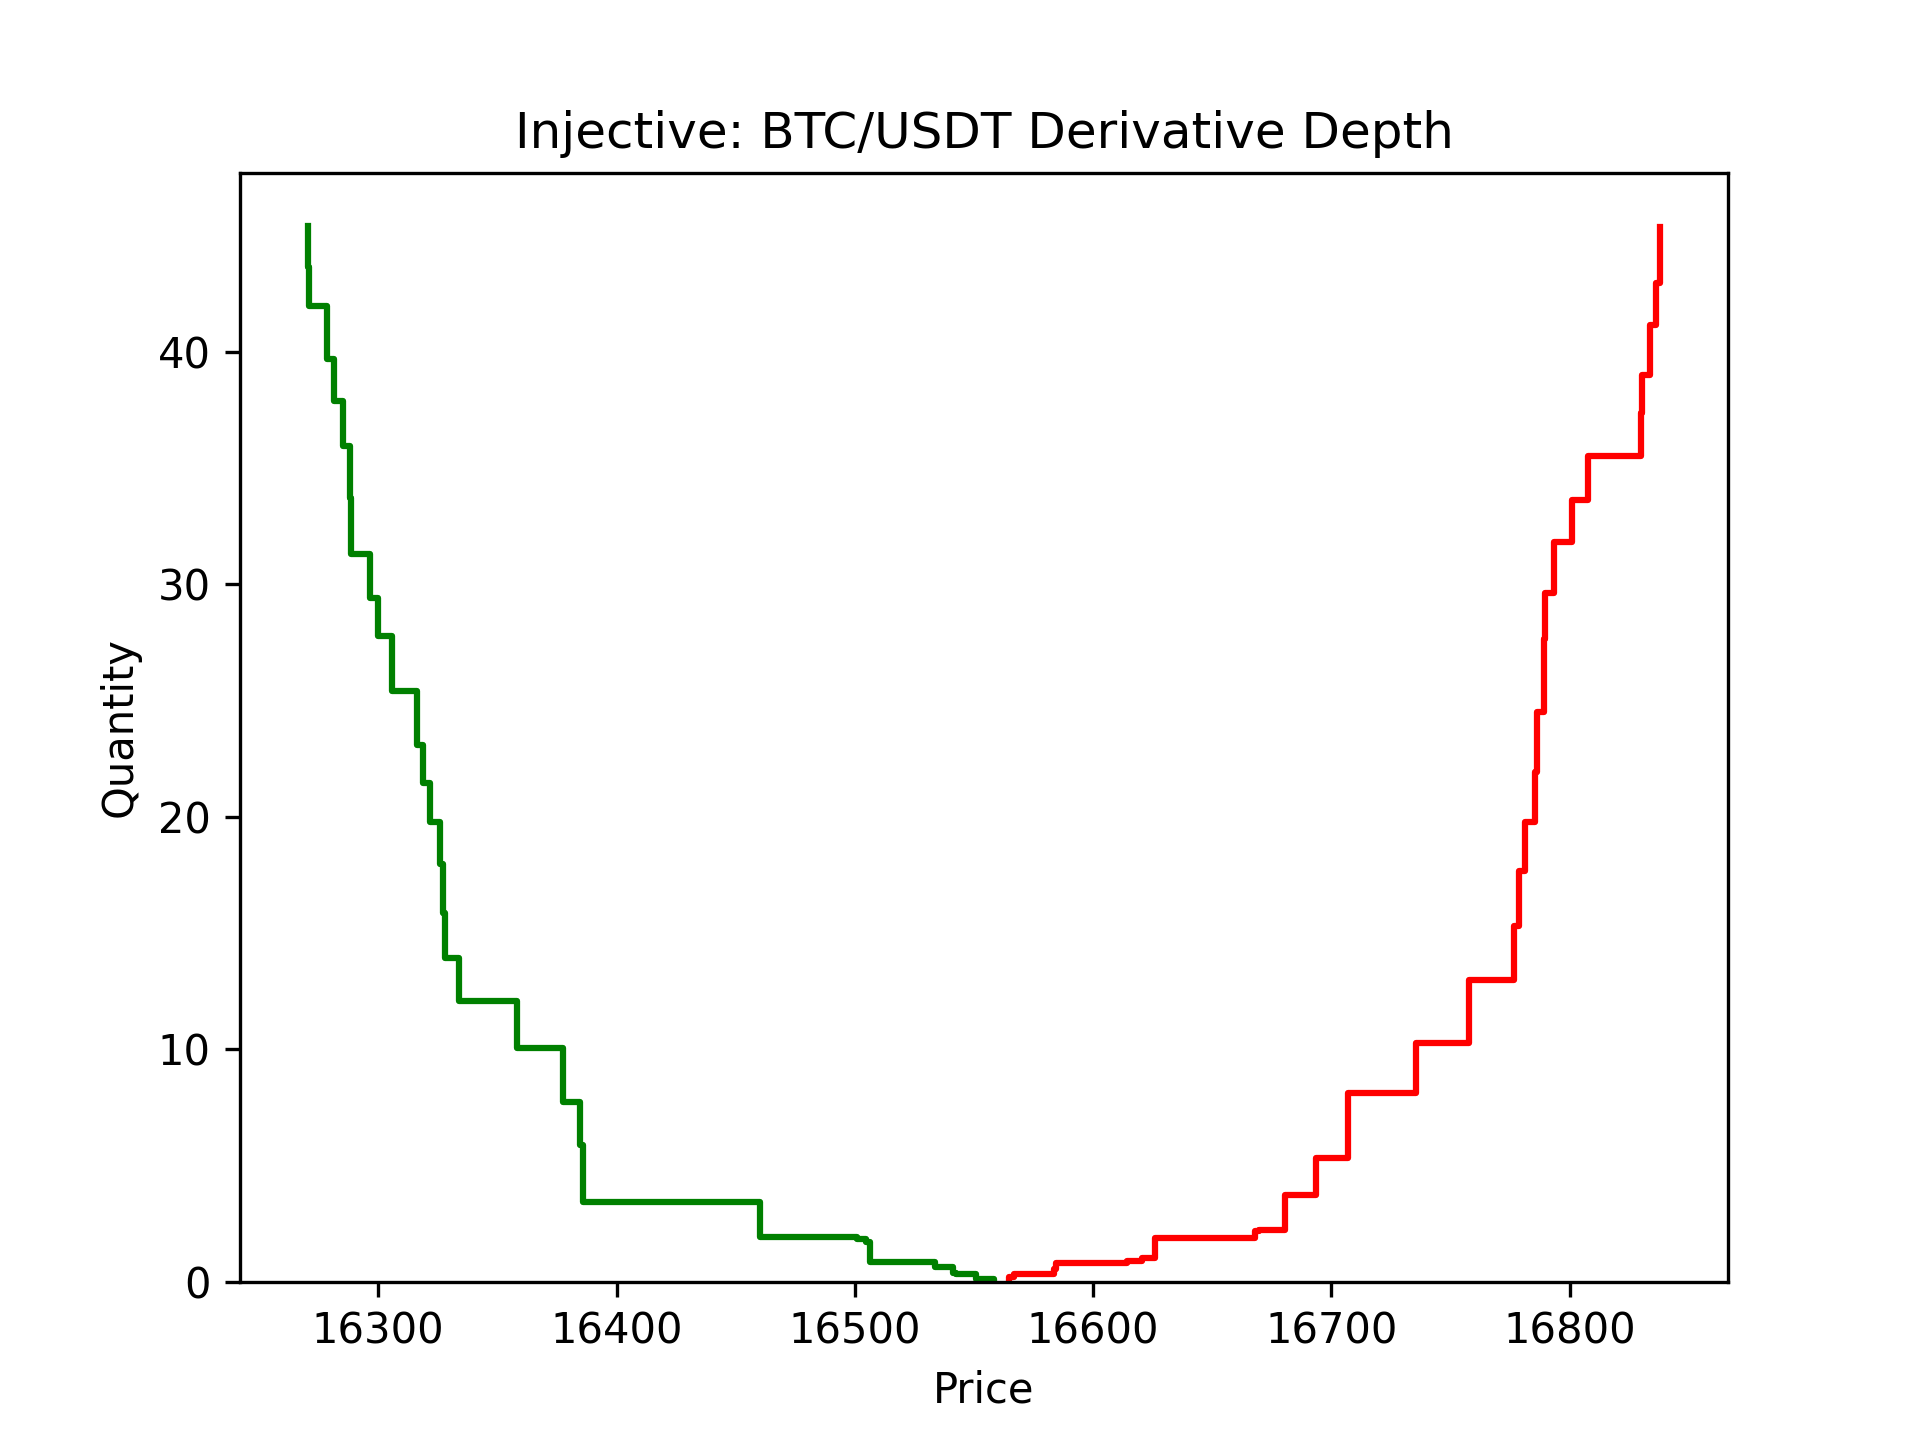
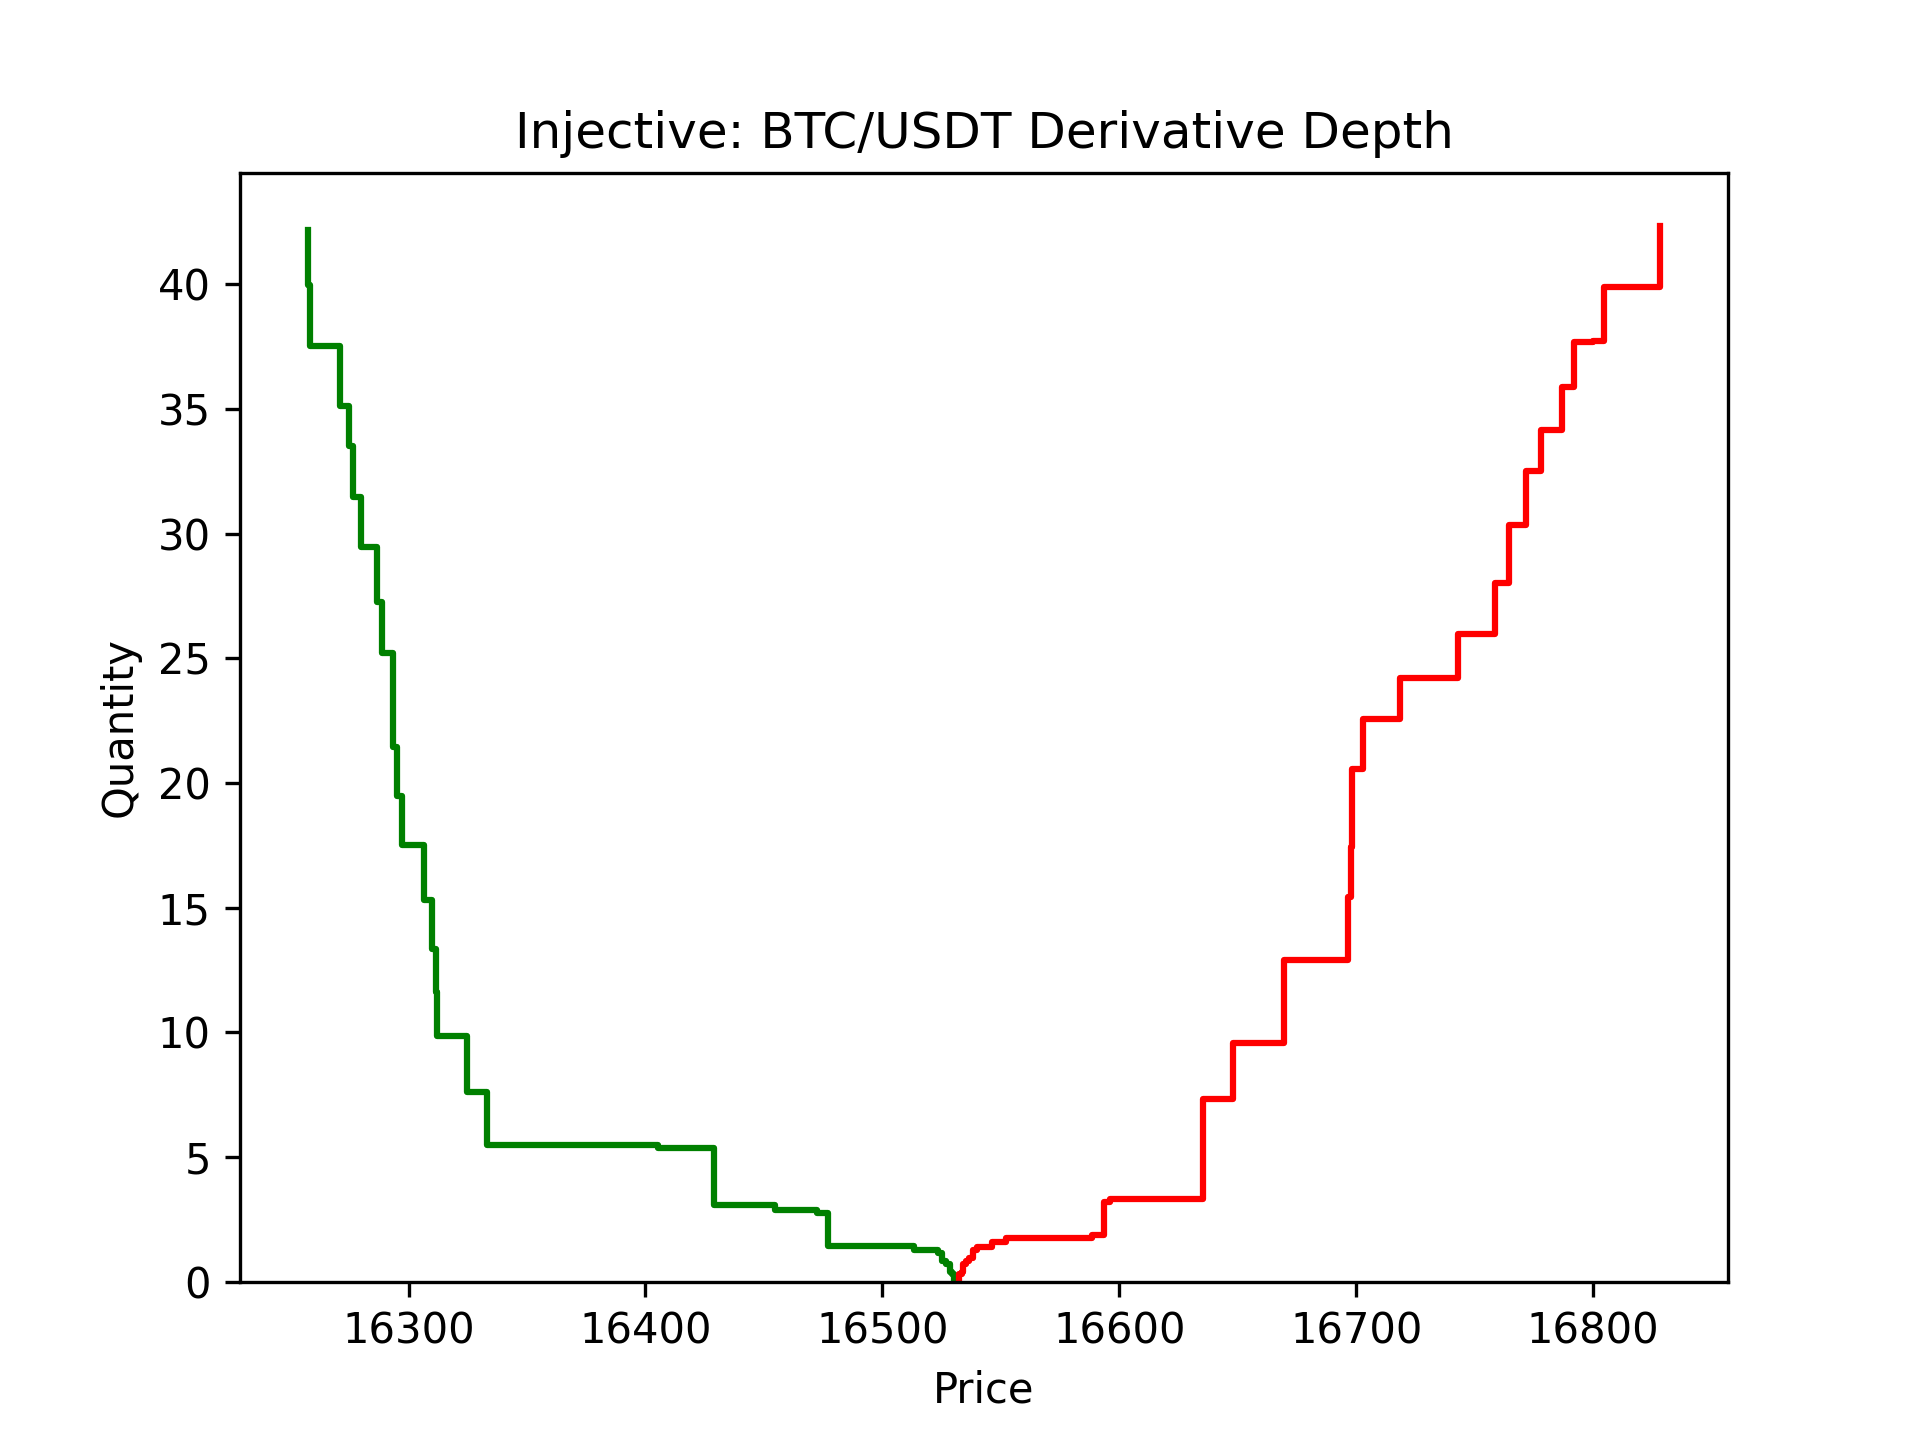
updated with webhooks

diff --git a/bot.py b/bot.py
@@ -8,13 +8,37 @@ import json
 import importlib.resources as pkg_resources
 import configparser
 import pyinjective
+import telebot
+from aiohttp import web
+import logging
+import ssl
 
 from utils import price, get_denom, auction_pending, get_ob, get_market_id, get_volume
+
+WEBHOOK_HOST = 'xenon3.com'
+WEBHOOK_PORT = 8443  # 443, 80, 88 or 8443 (port need to be 'open')
+WEBHOOK_LISTEN = '0.0.0.0'  # In some VPS you may need to put here the IP addr
+WEBHOOK_SSL_CERT = 'ssl/webhook_cert.pem'  # Path to the ssl certificate
+WEBHOOK_SSL_PRIV = 'ssl/webhook_pkey.pem'  # Path to the ssl private key
+WEBHOOK_URL_BASE = "https://{}:{}".format(WEBHOOK_HOST, WEBHOOK_PORT)
+
+# Process webhook calls
+async def handle(request):
+    if request.match_info.get('token') == bot.token:
+        request_body_dict = await request.json()
+        update = telebot.types.Update.de_json(request_body_dict)
+        asyncio.ensure_future(bot.process_new_updates([update]))
+        return web.Response()
+    else:
+        return web.Response(status=403)
+
 
 #Load bot api_key
 load_dotenv()
 api_key=os.getenv("api_key")
 bot = AsyncTeleBot(api_key)
+logger = telebot.logger
+telebot.logger.setLevel(logging.INFO)
 
 @bot.message_handler(commands=["tokenomics"])
 async def tokenomics(message):
@@ -203,5 +227,34 @@ async def pending(message):
     auction = auction_pending()
     await bot.reply_to(message, text=f"Total on-chain volume is currently:\n\n${vol}\n\nNext week's pending auction basket has accumulated:\n\n${auction}")
 
-asyncio.run(bot.infinity_polling(timeout=15))
+async def shutdown(app):
+    logger.info('Shutting down: removing webhook')
+    await bot.remove_webhook()
+    logger.info('Shutting down: closing session')
+    await bot.close_session()
+
+async def setup():
+    # Remove webhook, it fails sometimes the set if there is a previous webhook
+    logger.info('Starting up: removing old webhook')
+    await bot.remove_webhook()
+    # Set webhook
+    logger.info('Starting up: setting webhook')
+    await bot.set_webhook(url=WEBHOOK_URL_BASE,
+                certificate=open(WEBHOOK_SSL_CERT, 'r'))
+    app = web.Application()
+    app.router.add_post('/', handle)
+    app.on_cleanup.append(shutdown)
+    return app
+
+if __name__ == '__main__':
+    # Build ssl context
+    context = ssl.SSLContext(ssl.PROTOCOL_TLSv1_2)
+    context.load_cert_chain(WEBHOOK_SSL_CERT, WEBHOOK_SSL_PRIV)
+    # Start aiohttp server
+    web.run_app(
+        setup(),
+        host=WEBHOOK_LISTEN,
+        port=WEBHOOK_PORT,
+        ssl_context=context,
+    )
 

diff --git a/utils.py b/utils.py
@@ -97,8 +97,8 @@ def get_ob(market_id, type, base, quote):
 
     for i in range(len(data["buys_price_level"])):
         buy_df = {
-                "price" : round(float(data["buys_price_level"][i]["price"]) / price_const, 2),
-                "quantity" : round(float(data["buys_price_level"][i]["quantity"]) / quant_const, 2),
+                "price" : round(float(data["buys_price_level"][i]["p"]) / price_const, 2),
+                "quantity" : round(float(data["buys_price_level"][i]["q"]) / quant_const, 2),
                 "side" : "bids"
         }
 
@@ -106,8 +106,8 @@ def get_ob(market_id, type, base, quote):
 
     for i in range(len(data["sells_price_level"])):
         sell_df = {
-            "price" : round(float(data["sells_price_level"][i]["price"]) / price_const, 2),
-            "quantity" : round(float(data["sells_price_level"][i]["quantity"]) / quant_const, 2),
+            "price" : round(float(data["sells_price_level"][i]["p"]) / price_const, 2),
+            "quantity" : round(float(data["sells_price_level"][i]["q"]) / quant_const, 2),
             "side" : "asks"
         }
 
